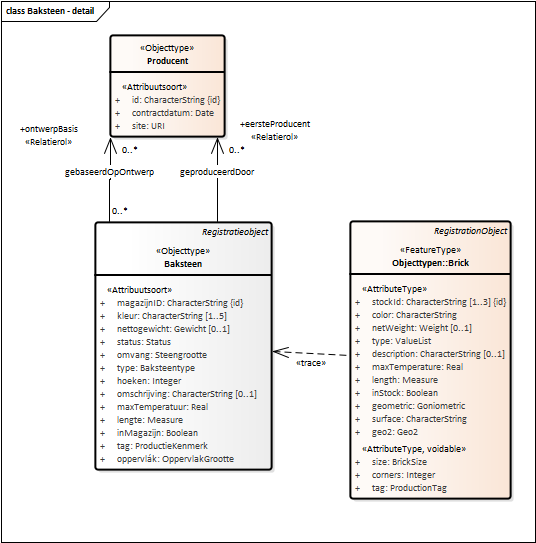
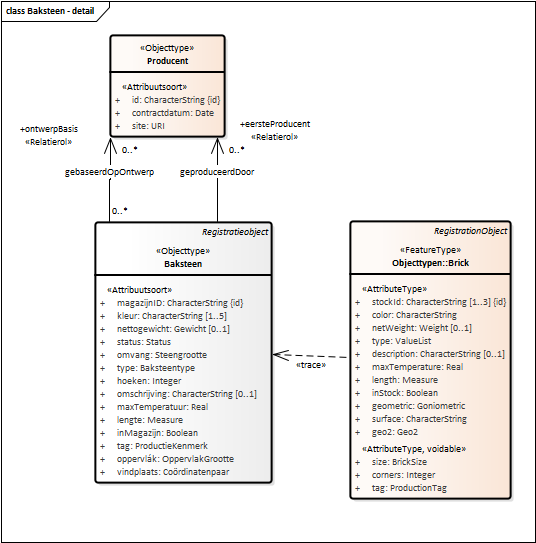
Conceptualmodel-SampleBaseSAMPLE-1.0.0-2-20130318-20200207-085011

Changed region(s): [[0.1791, 0.8545, 0.5075, 0.9134], [0.5075, 0.6188, 0.6567, 0.6777]]

diff --git a/data/SAMPLE-cat.msword.html b/data/SAMPLE-cat.msword.html
@@ -13,7 +13,7 @@
    <body>
       <p>Conceptual model/SampleBase (SAMPLE)/20130318</p>
       <p>Imvertor: 1.58.1</p>
-      <p>Model release: Conceptualmodel-SampleBaseSAMPLE-1.0.0-2-20130318-20200204-142845</p>
+      <p>Model release: Conceptualmodel-SampleBaseSAMPLE-1.0.0-2-20130318-20200207-085011</p>
       <hr>
       <section>
          <h1>Artikel 1 Definitie van registratieobject, entiteiten en attributen</h1>
@@ -60,7 +60,7 @@
                   <h3>   Baksteen</h3>
                   <div class="imageinfo "><img src="Images/EAID_EB759E5B_3FAA_4064_A73E_704926072F89.png" usemap="#imagemap-EAID_EB759E5B_3FAA_4064_A73E_704926072F89" alt="Diagram Gedetailleerde informatie over Baksteen objectttype, inclusief traces."><map name="imagemap-EAID_EB759E5B_3FAA_4064_A73E_704926072F89">
                         <area shape="rect" alt="Producent" coords="110,35,225,137" href="#graph_EAID_04EED45C_4D30_41b9_83EE_65237E1F8E27">
-                        <area shape="rect" alt="Baksteen" coords="95,222,272,470" href="#graph_EAID_CF7C4448_E50C_4c7a_B1D0_C4FCB2EB1814"></map><p><b>Baksteen</b> — Gedetailleerde informatie over Baksteen objectttype, inclusief traces.
+                        <area shape="rect" alt="Baksteen" coords="95,222,272,483" href="#graph_EAID_CF7C4448_E50C_4c7a_B1D0_C4FCB2EB1814"></map><p><b>Baksteen</b> — Gedetailleerde informatie over Baksteen objectttype, inclusief traces.
                      </p>
                   </div>
                   <table style="width: 100%;">
@@ -676,6 +676,36 @@
                                  <p>Dit is de oppervlakte van de grootste zijde.</p>
                                  
                               </td>
+                           </tr>
+                        </tbody>
+                     </table>
+                     
+                  </section><a class="anchor" id="detail_attribute_Model_Baksteen_vindplaats"></a><section id="detail_attribute_Model_Baksteen_vindplaats">
+                     <h4>  vindplaats</h4>
+                     
+                     <table style="width: 100%;">
+                        <colgroup style="width: 30%;"></colgroup>
+                        <colgroup style="width: 70%;"></colgroup>
+                        <tbody>
+                           <tr>
+                              <th>Type gegeven</th>
+                              <td>Attribuut van Baksteen</td>
+                           </tr>
+                           <tr>
+                              <th>Juridische status</th>
+                              <td>Authentiek</td>
+                           </tr>
+                           <tr>
+                              <th>Kardinaliteit</th>
+                              <td>1</td>
+                           </tr>
+                           <tr>
+                              <th>Domein</th>
+                              <td></td>
+                           </tr>
+                           <tr>
+                              <th>&nbsp;&nbsp;Naam</th>
+                              <td>Coördinatenpaar</td>
                            </tr>
                         </tbody>
                      </table>
